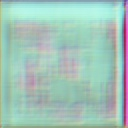
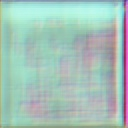
Fixed saving weights bug and showing samples bug, found a stable learning rate

diff --git a/GAN_train.py b/GAN_train.py
@@ -36,16 +36,12 @@ def chunks(l, n):
         yield i,l[i:i+n]
         # yield l[i:i+n]
 def train(paths, batch_size, EPOCHS):
-
     #reproducibility
     #np.random.seed(42)
 
     fig = plt.figure()
-
     IMAGES = load_shuffle(paths)
-
-
-    BATCHES = [ b for b in chunks(IMAGES, batch_size) ]
+    # BATCHES = [ b for b in chunks(IMAGES, batch_size) ]
 
     discriminator = GAN_models.discriminator()
     generator = GAN_models.generator()
@@ -53,8 +49,8 @@ def train(paths, batch_size, EPOCHS):
     #try default params setting
     # adam_gen = Adam()
     # adam_dis = Adam()
-    adam_gen=Adam(lr=0.00002, beta_1=0.0005, beta_2=0.999, epsilon=1e-08)
-    adam_dis=Adam(lr=0.00002, beta_1=0.0005, beta_2=0.999, epsilon=1e-08)
+    adam_gen=Adam(lr=0.00001, beta_1=0.0005, beta_2=0.999, epsilon=1e-08)
+    adam_dis=Adam(lr=0.00001, beta_1=0.0005, beta_2=0.999, epsilon=1e-08)
     generator.compile(loss='binary_crossentropy', optimizer=adam_gen)
     discriminator_on_generator.compile(loss='binary_crossentropy', optimizer=adam_gen)
     discriminator.trainable = True
@@ -65,7 +61,7 @@ def train(paths, batch_size, EPOCHS):
 
     #margin = 0.25
     #equilibrium = 0.6931
-    inter_model_margin = 0.25
+    inter_model_margin = 0.1
 
     for epoch in range(EPOCHS):
         print("Epoch {}".format(epoch))
@@ -123,15 +119,15 @@ def train(paths, batch_size, EPOCHS):
 
             print("Final batch losses (after updates) : G", "Generator loss", g_loss, "Discriminator loss", d_loss, "Total:", g_loss + d_loss)
 
-            if (index+1) % 20 == 0:
-                print('Saving weights..')
-                generator.save_weights('generator_weights', True)
-                discriminator.save_weights('discriminator_weights', True)
+        print('Epoch {} ,Saving weights..'.format(epoch))
+        generator.save_weights('generator_weights', True)
+        discriminator.save_weights('discriminator_weights', True)
 
         plt.clf()
         for i, img in enumerate(generated_images[:9]):
             i = i+1
             plt.subplot(3, 3, i)
+            img =np.uint8(255 * 0.5 * (img + 1.0))
             plt.imshow(img)
             plt.axis('off')
         fig.canvas.draw()
@@ -142,7 +138,7 @@ def generate(img_num):
         Generate new images based on trained model.
     '''
     generator = GAN_models.generator()
-    adam=Adam(lr=0.00002, beta_1=0.0005, beta_2=0.999, epsilon=1e-08)
+    adam=Adam(lr=0.00001, beta_1=0.0005, beta_2=0.999, epsilon=1e-08)
     generator.compile(loss='binary_crossentropy', optimizer=adam)
     generator.load_weights('generator_weights')
 
@@ -167,7 +163,7 @@ def get_args():
 
 if __name__ == "__main__":
     # load_image('data128/0.png')
-    # train('data128/',batch_size=64,EPOCHS=20)
+    train('data128/',batch_size=64,EPOCHS=20)
     generate(2)
 
     # args = get_args()
